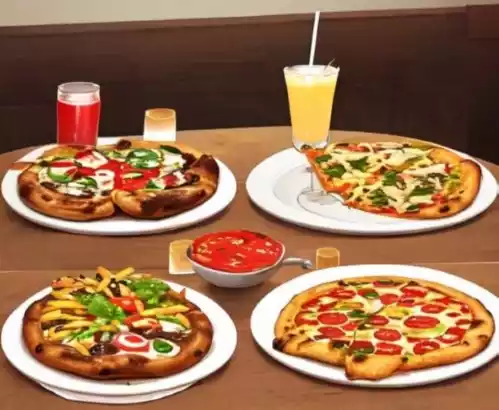
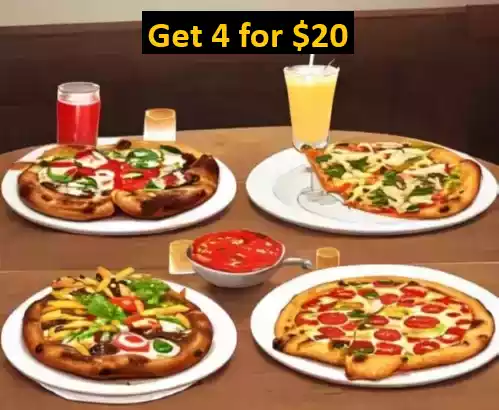
Finish Project part 4

Changed region(s): [[0.2705, 0.0293, 0.7214, 0.1463]]

diff --git a/projects/part4/careers.html b/projects/part4/careers.html
@@ -65,7 +65,7 @@
                         <div>
                             <h1>Join Our Team!</h1>
                             <h2>Benefits</h2>
-                            <p>Lorem ipsum dolor, sit amet consectetur adipisicing elit. Nobis iusto blanditiis expedita debitis dolore aspernatur harum et veritatis quibusdam ad fugit quisquam, sit recusandae a nostrum quas quaerat, omnis ut! Lorem ipsum dolor, sit amet consectetur adipisicing elit. Illo non, veritatis quasi reprehenderit eos velit porro dolore nostrum quis dolor voluptates? Commodi, ab rerum sequi iure nostrum debitis fugit. Sint. Lorem ipsum dolor, sit amet consectetur adipisicing elit. Quia deleniti consequuntur consectetur dolores? Voluptas, consequatur dolorum, at quasi accusamus, veritatis corrupti mollitia incidunt quam dicta obcaecati optio tempore suscipit eaque. Lorem ipsum dolor, sit amet consectetur adipisicing elit. Nam itaque veritatis earum consectetur, numquam laboriosam, illum quasi officia, quis reiciendis ad corporis id repudiandae in repellendus obcaecati aperiam atque delectus.</p>
+                            <p>Working at Victorious Pizza comes with a variety of benefits, including health insurance, paid time off, and a 401k plan. We also offer a 50% discount on all food and drinks for our employees. We believe in taking care of our team members so they can take care of our customers and each other. Creating an environment where our employees can thrive is important to us and we are committed to providing the best experience for our employees and customers.</p>
                         </div>
                     </section>
                     <section class="two">
@@ -76,16 +76,16 @@
                                 <th>Position</th>
                             </tr>
                             <tr>
-                                <td>Location 1</td>
-                                <td>Position 1</td>
+                                <td>Downtown</td>
+                                <td>Server</td>
                             </tr>
                             <tr>
-                                <td>Location 2</td>
-                                <td>Position 2</td>
+                                <td>Road St.</td>
+                                <td>Chef</td>
                             </tr>
                             <tr>
-                                <td>Location 3</td>
-                                <td>Position 3</td>
+                                <td>West End</td>
+                                <td>Manager</td>
                             </tr>
                         </table>
                     </section>

diff --git a/projects/part4/culture.html b/projects/part4/culture.html
@@ -63,15 +63,15 @@
                 <section class="flex-column">
                     <article class="three">
                         <h1>Culture</h1>
-                        <p>The culture at Victorious Pizza is one of a kind. We believe in creating a fun and inclusive environment for our employees and customers. We are committed to providing the best experience for our customers and employees. We believe in creating a fun and inclusive environment for our employees and customers. We are committed to providing the best experience for our customers and employees. We believe in creating a fun and inclusive environment for our employees and customers. We are committed to providing the best experience for our customers and employees. We believe in creating a fun and inclusive environment for our employees and customers. We are committed to providing the best experience for our customers and employees.</p>
+                        <p>The culture at Victorious Pizza is one of a kind. We believe in creating a fun and inclusive environment for our employees and customers. We are committed to providing the best experience for our customers and employees. We operate with integrity and respect and there is no question that someone will always be there to have your back. We are a family and we can't wait to welcome you into it!</p>
                     </article>
                     <div class="one">
-                        <img src="https://place-hold.it/500x500" alt="Image">
+                        <img src="./img/culture/culture.jpg" alt="Staff Image">
                     </div>
                 </section>
                 <section class="flex-column">
                     <div class="one">
-                        <img src="https://place-hold.it/500x500" alt="Image">
+                        <img src="./img/culture/atmosphere.jpg" alt="People enjoying the atmosphere">
                     </div>
                     <article class="three">
                         <h1>Atmosphere</h1>

diff --git a/projects/part4/about-us.html b/projects/part4/about-us.html
@@ -75,11 +75,11 @@
                                 <img src="./img/about-us/star-half.webp" alt="Half Star" class="rating-star">
                                 <img src="./img/about-us/star-empty.webp" alt="Empty Star" class="rating-star">
                             </div>
-                            <p>Review... Lorem, ipsum dolor sit amet consectetur adipisicing elit. Ratione magnam eos laboriosam neque, nulla delectus debitis hic. Tempora, unde repellendus asperiores eligendi ut, mollitia quaerat tenetur, id accusamus aspernatur at! Lorem ipsum, dolor sit amet consectetur adipisicing elit. Est aliquid ad quibusdam deserunt, expedita suscipit illum alias architecto dolor vel! Sunt neque eius inventore libero numquam. Tempora cum laborum ea. Lorem ipsum dolor sit, amet consectetur adipisicing elit. Perspiciatis saepe suscipit animi. Possimus nemo sequi totam nulla iste sed, aliquid iure ea expedita, illo atque consequuntur, neque dolores consequatur dignissimos.</p>
+                            <p>My experience at Victorious Pizza was amazing! The food was delicious and the staff was very friendly. I will definitely be coming back! The burger wasn't exactly what I expected, but it was still alright, The pizza however was unlike anything I've ever had before. I would definitely recommend this place to anyone looking for a good meal.</p>
                         </div>
                     </div>
                     <div class="one">
-                        <img src="https://place-hold.it/300" alt="Image">
+                        <img src="./img/about-us/review.jpg" alt="Image" class="review-user-img">
                     </div>
                 </div>
                 <div class="flex-column">

diff --git a/projects/part4/index.html b/projects/part4/index.html
@@ -61,18 +61,18 @@
         <main>
             <div id="main-content">
                 <div>
-                    <a href="./menu.html"><img src="./img/index/main.webp" alt="Large Image" id="main-img"></a>
+                    <a href="./menu.html"><img src="./img/index/main.webp" alt="Get great pizza with our combo options!" id="main-img"></a>
                 </div>
                 <div id="sub-img" class="flex-column">
                     <div>
-                        <a href="./menu.html"><img src="./img/index/flying-solo.webp" alt="Sub Image"></a>
+                        <a href="./menu.html"><img src="./img/index/flying-solo.webp" alt="Flying Solo? We have you covered."></a>
                     </div>
                     <div class="flex">
                         <div>
-                            <a href="./menu.html"><img src="./img/index/mix-and-match.webp" alt="Small Image 1"></a>
+                            <a href="./menu.html"><img src="./img/index/mix-and-match.webp" alt="Mix and Match"></a>
                         </div>
                         <div>
-                            <a href="./menu.html"><img src="./img/index/mix-and-match1.webp" alt="Small Image 2"></a>
+                            <a href="./menu.html"><img src="./img/index/mix-and-match1.webp" alt="Get 4 for $20"></a>
                         </div>
                     </div>
                 </div>

diff --git a/projects/part4/locations.html b/projects/part4/locations.html
@@ -61,14 +61,14 @@
         <main>
             <div id="locations-content">
                 <a href="./location.html">
-                    <img src="./img/locations/main.webp" alt="Large Image" id="main-img">
+                    <img src="./img/locations/main.webp" alt="Located in prime central downtown! Click for more info." id="main-img">
                 </a>
                 <div id="locations-sublinks" class="flex-column">
                     <a href="./location.html">
-                        <img src="./img/locations/side1.webp" alt="Sub Image">
+                        <img src="./img/locations/side1.webp" alt="Other locations in the West End">
                     </a>
                     <a href="./location.html">
-                        <img src="./img/locations/side2.webp" alt="Sub Image">
+                        <img src="./img/locations/side2.webp" alt="And the trendy Road St. Area.">
                     </a>
                 </div>
             </div>

diff --git a/projects/part4/location.html b/projects/part4/location.html
@@ -62,14 +62,14 @@
             <div id="location-content" class="flex-column">
                 <div class="two">
                     <div>
-                        <img src="./img/location/inside.jpg" alt="Storefront Image">
+                        <img src="./img/location/inside.jpg" alt="Cozy Interior">
                     </div>
                     <div class="flex-column">
                         <div class="one">
-                            <img src="./img/location/special.jpg" alt="Specialty Dishes">
+                            <img src="./img/location/special.jpg" alt="Special Location Teriyaki Burger">
                         </div>
                         <div class="one">
-                            <img src="./img/location/kitchen.jpg" alt="Interesting point highlight">
+                            <img src="./img/location/kitchen.jpg" alt="Professional Open Kitchen">
                         </div>
                     </div>
                 </div>

diff --git a/projects/part4/script.js b/projects/part4/script.js
@@ -3,3 +3,13 @@ const button = document.getElementById('main-nav-hamburger');
 button.addEventListener('click', function() {
     document.getElementById('main-nav-links').classList.toggle('hide-nav-links');
 });
+
+const currentPage = document.getElementById('current-page');
+switch (currentPage.innerHTML) {
+    case 'Menu':
+        const btnCart = document.getElementById('btn-cart');
+        btnCart.addEventListener('click', function() {
+            window.location.href = 'cart.html';
+        });
+        break;
+}

diff --git a/projects/part4/styles.css b/projects/part4/styles.css
@@ -221,6 +221,10 @@ header p {
 #culture-content article {
     padding: 25px;
 }
+#culture-content img {
+    width: 500px;
+    height: 500px;
+}
 
 /* Careers */
 #careers-content {
@@ -266,6 +270,10 @@ header p {
     width: 100px;
     height: 100px;
     border-radius: 50%;
+}
+.review-user-img {
+    width: 300px;
+    height: 300px;
 }
 .rating-star {
     width: 25px;

diff --git a/projects/part4/menu.html b/projects/part4/menu.html
@@ -199,7 +199,7 @@
                     </div>
                 </section>
                 <section class="right one">
-                    <button>
+                    <button id="btn-cart">
                         <p>Go to Cart</p>
                     </button>
                 </section>
